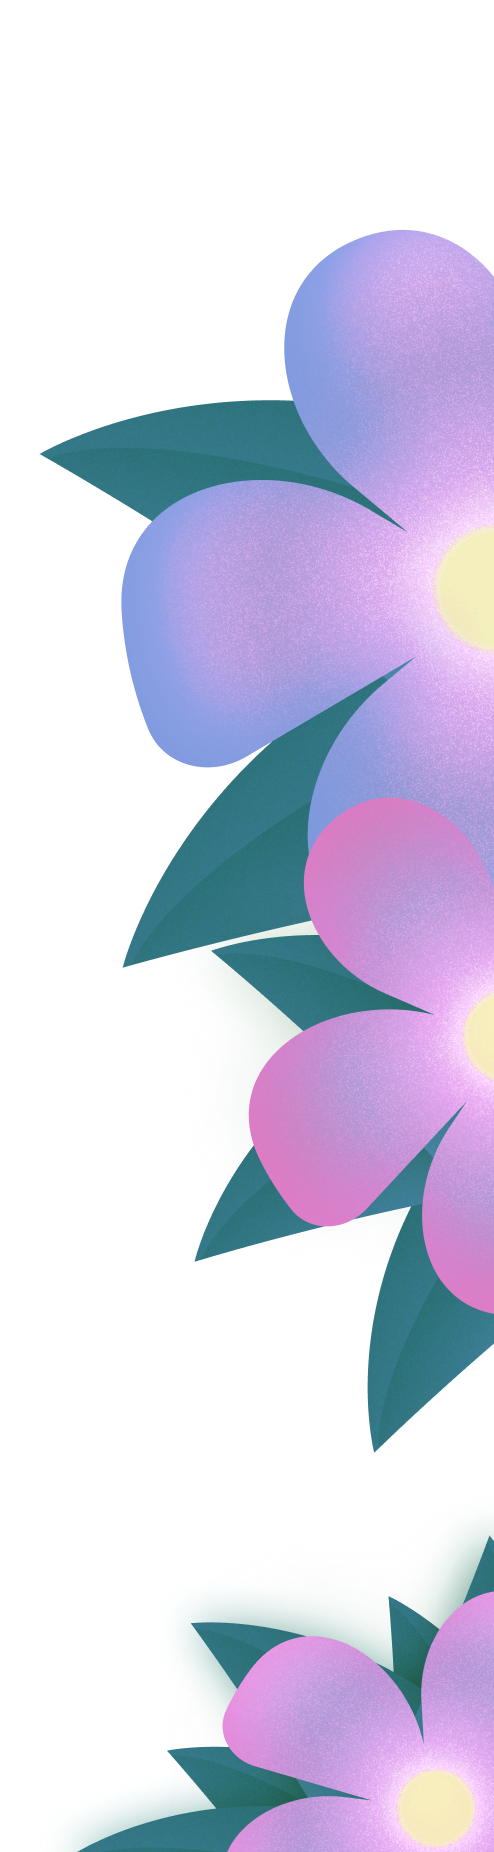
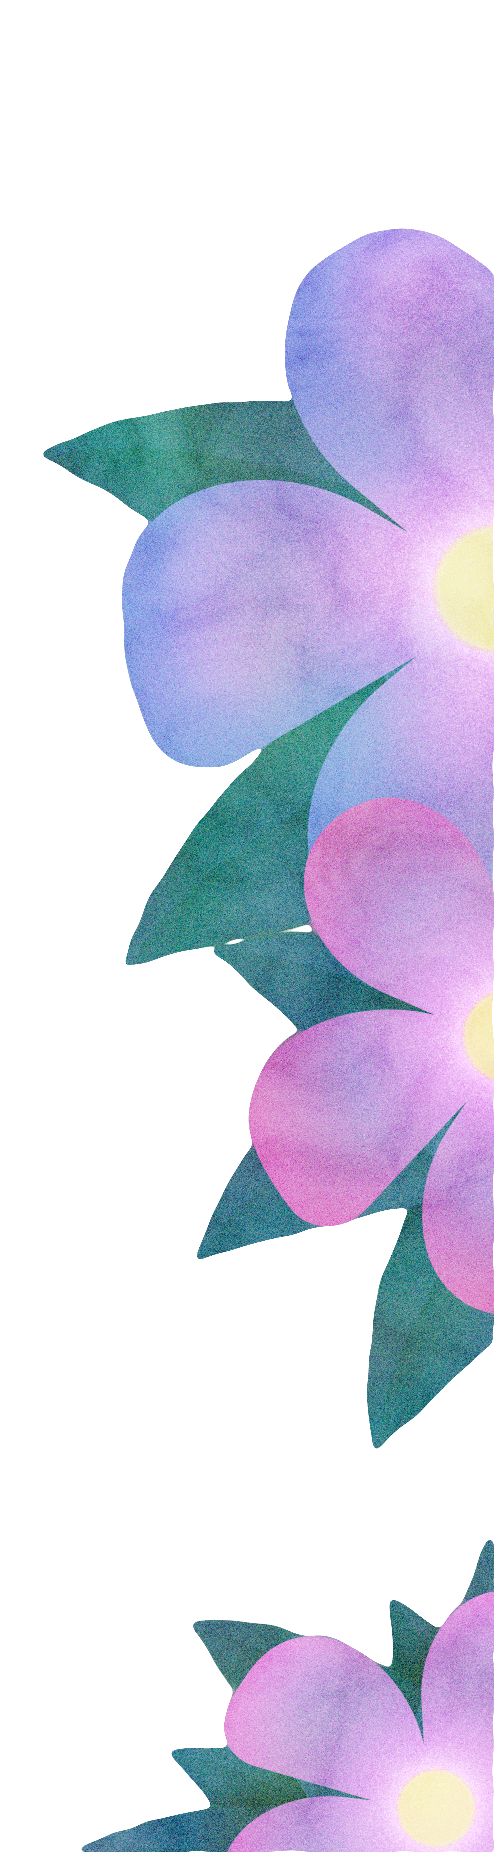
-

diff --git a/index.html b/index.html
@@ -4,7 +4,7 @@
 		<meta charset="utf-8">
     <link rel="stylesheet" href="style.css">
 		<title>Martha May</title>
-		<link rel="icon" href="fav.svg">
+		<link rel="icon" href="fav.png">
     <meta name="viewport" content="width=device-width, initial-scale=1.0">
 		<meta name="viewport" content="height=device-height, initial-scale=1.0">
 		<link rel="preconnect" href="https://fonts.googleapis.com">
@@ -45,7 +45,7 @@
 			</div>
 			<div id="main" class="page on">
 				<div class="space"></div>
-				<img src="c6.jpg" class="card">
+				<img src="c9.jpg" class="card frst"/>
 				<div class="card text">
 					Hailing from the coastal city of Split, Croatia, Martha May is a
 					heartfelt songwriter and born performer. Infusing deeply personal
@@ -83,28 +83,33 @@
 
 				<div class="card event">
 					<div class="event date">
-						<div class="event number">26</div>
+						<div class="event number">8</div>
 						<div class="event month">DEC</div>
 					</div>
 					<div class="event place">
-						<div class="event name">Drink and Booze</div>
-						<div class="event adress">18 Anchors and Fish Rd, 8:00pm</div>
+						<div class="event name">Broadway Bar and Grill</div>
+						<div class="event adress">Fulham, 8:00pm</div>
 					</div>
 				</div>
 
 				<div class="card event">
 					<div class="event date">
-						<div class="event number">14</div>
-						<div class="event month">FEB</div>
+						<div class="event number">21</div>
+						<div class="event month">JAN</div>
 					</div>
 					<div class="event place">
-						<div class="event name">The Broadway Whatever</div>
-						<div class="event adress">183 Almond Street, London, 8:00pm</div>
+						<div class="event name">TBA</div>
+						<div class="event adress">TBA</div>
 					</div>
 				</div>
 
 			</div>
 			<div id="demo" class="page">
+				<div class="space"></div>
+				<iframe class="card ytbe" width="560" height="315" src="https://www.youtube-nocookie.com/embed/SNkd750UADg" title="YouTube video player" frameborder="0" allow="accelerometer; autoplay; clipboard-write; encrypted-media; gyroscope; picture-in-picture" allowfullscreen></iframe>
+				<iframe class="card ytbe" width="560" height="315" src="https://www.youtube.com/embed/SNkd750UADg" title="YouTube video player" frameborder="0" allow="accelerometer; autoplay; clipboard-write; gyroscope; picture-in-picture" allowfullscreen></iframe>
+				<iframe class="card ytbe" width="560" height="315" src="https://www.youtube.com/embed/zobf-1hkVO0" title="YouTube video player" frameborder="0" allow="accelerometer; autoplay; clipboard-write; encrypted-media; gyroscope; picture-in-picture" allowfullscreen></iframe>
+				<iframe class="card ytbe" width="560" height="315" src="https://www.youtube.com/embed/6AsiEsyg25k" title="YouTube video player" frameborder="0" allow="accelerometer; autoplay; clipboard-write; encrypted-media; gyroscope; picture-in-picture" allowfullscreen></iframe>
 			</div>
 			<div id="contact" class="page">
 			</div>

diff --git a/style.css b/style.css
@@ -96,7 +96,7 @@ body
 	width:100%;
 	left:0%;
 	background-image: linear-gradient(90deg, var(--bg1) 0%,  var(--bg2) 50%,  var(--bg3) 100%);
-	background-image:url('backg.png');
+	background-image:url('backgMobile.png');
 	background-position: left;
 	background-size: 100% 100%;
 	z-index: -2;
@@ -115,14 +115,14 @@ body
 #bgL
 {
 	left:0%;
-	background:url('bgLeft.png')  no-repeat;		
+	background:url('bgLeftMobile.png')  no-repeat;		
 	background-position: left;
 	
 	
 }
 #bgR
 {
-	background:url('bgRight.png')  no-repeat;		
+	background:url('bgRightMobile.png')  no-repeat;		
 	right:0%;
 	background-position: right;
 }
@@ -331,7 +331,23 @@ header::after
 img.card
 {
 	background:var(--1c);
-	box-shadow: none;
+}
+.frst::after
+{
+	position: absolute;
+	height: 240px;
+	width: 183px;
+	background:url('hat.png');
+	bottom:3px;
+	right:8px;
+	content: 'a';
+	background-size:100%;
+	color:transparent;
+}
+.card.ytbe
+{
+	width: 90%;
+	height:253px;
 }
 .card.text
 {
@@ -421,7 +437,7 @@ img.card
 
 
 
-=
+
 @media (min-width:500px)
 {
 }
@@ -437,9 +453,38 @@ img.card
 		left:calc(50% - 225px);
 		width: 450px;
 	}
+	
+}
+@media (min-width:1000px) and (prefers-color-scheme: dark)
+{
+  #bgL
+	{
+		background-image:url('bgLeftDark.png');		
+	}
+  #bgR
+	{
+		background-image:url('bgRightDark.png');		
+	}
+	#bg
+	{
+		background-image:url('backgDark.png') !important;		
+	}
 }
 @media (min-width:1000px)
 {
+
+	#bgL
+	{
+		background-image:url('bgLeft.png');		
+	}
+  #bgR
+	{
+		background-image:url('bgRight.png');		
+	}
+	#bg
+	{
+		background-image:url('backg.png');		
+	}
   #drawerIcon,#drawerIconClose,#bgHeader
 	{
 		display: none !important;
@@ -538,15 +583,15 @@ img.card
 	
 	#bg
 	{
-		background-image:url('backgDark.png');
+		background-image:url('backgDarkMobile.png');
 	}
 	#bgL
 	{
-		background-image:url('bgLeftDark.png');		
+		background-image:url('bgLeftDarkMobile.png');		
 	}
 	#bgR
 	{
-		background-image:url('bgRightDark.png');		
+		background-image:url('bgRightDarkMobile.png');		
 	}
 	*/
 }

diff --git a/script.js b/script.js
@@ -9,6 +9,13 @@ var card = document.getElementsByClassName("card");
 var currentPage = 1;
 var previousPage = 1;
 
+setTimeout(function(){
+	window.scrollTo(0, 0);
+}, 1)
+setTimeout(function(){
+	document.getElementById('curtains').style.display = "none"
+}, 1000)
+
 function pickPage(number)
 {
 	if (number == 99){number = previousPage}
@@ -26,4 +33,5 @@ function pickPage(number)
 		card[i].classList.add("on");
 	}
 	page[number].classList.add("on");
+	window.scrollTo(0, 0);
 }
